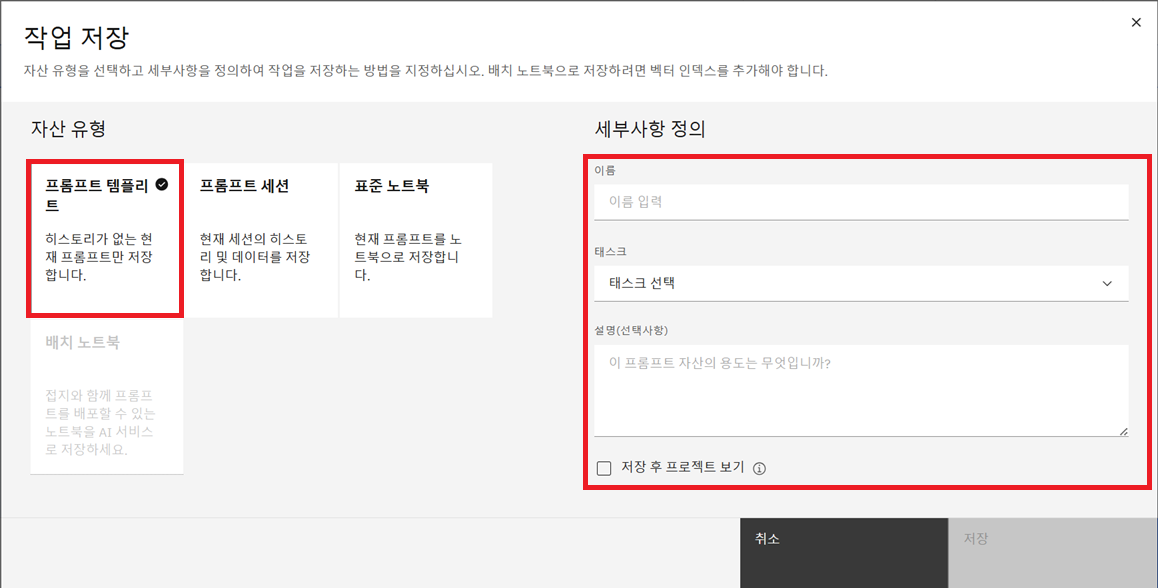
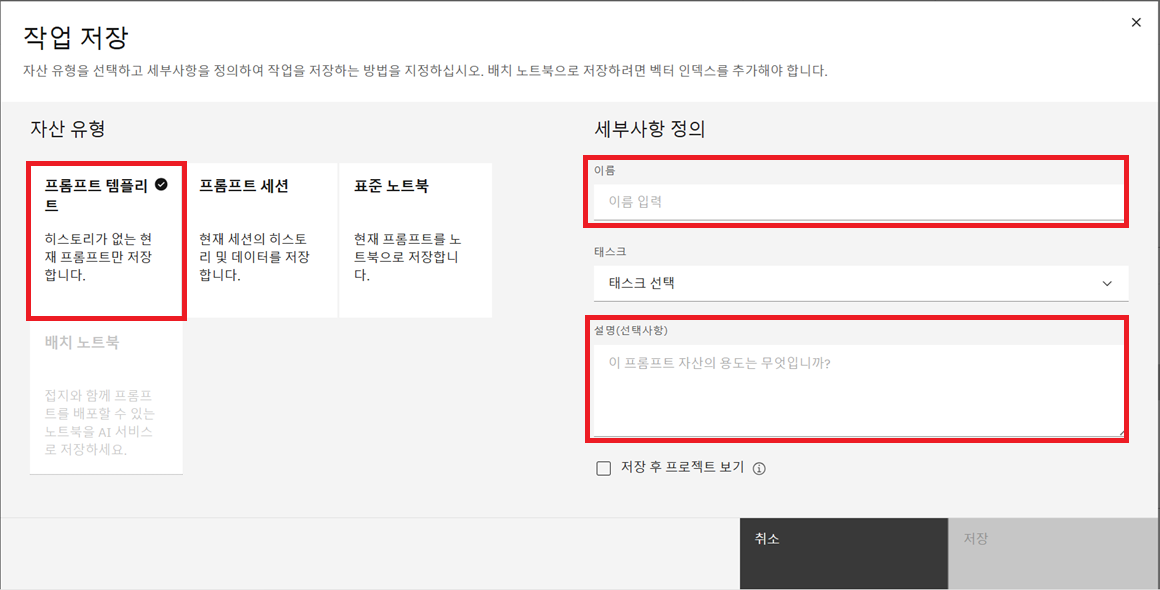
Watsonx Basic

diff --git a/01_Watsonx_Basic/HandsOn.md b/01_Watsonx_Basic/HandsOn.md
@@ -310,9 +310,12 @@ Output:
 ```
 ![자유형식 프롬프트](./img/freeform_prompt2.png)
 
+
 ## 프롬프트 저장하기
 
-![save prompt](./img/save_prompt.png)
+이전 단계에서 구조화된 프롬프트를 기반으로 개발한 고객 문의 자동 분류 챗봇 프롬프트를 저장해 보겠습니다.
+
+![save prompt](./img/save_prompt1.png)
 
 - 우측 상단 저장되지 않음의 오른쪽 **파일 모양** 클릭
 - **다른 이름으로 저장** 클릭
@@ -320,15 +323,78 @@ Output:
 ![save prompt](./img/save_prompt2.png)
 
 - 화면 좌측 **프롬프트 템플리트** 클릭
-- 이름과 
+- **이름**과 **설명**을 입력합니다.
 - 프로젝트 작성 화면에서 아래 규칙에 따라 이름과 설명을 작성합니다.
   - 다수의 인원이 한 자원을 사용하므로 반드시 명명규칙을 지켜 주시기 바랍니다.
-  - 명명규칙 : <자기이름>_base_template
+  - 명명규칙 : <자기이름>_고객문의분류챗봇
 - 이름(에시) 
   ```
-  Junho_base_template
+  Junho_고객문의분류챗봇
   ```
 - 설명
   ```
-  Watsonx.ai studio Prompt Lab 실습을 위한 프로젝트입니다.
+  고객 문의 자동 분류 및 챗봇 실습을 위한 프롬프트 입니다.
   ```
+
+
+![save prompt](./img/save_prompt3.png)
+
+- 이름과 설명 입력 후, 테스크는 **Classification**으로 선택합니다.
+- 설정이 모두 완료되었다면 우측 하단 **저장**을 클릭합니다.
+
+## Prompt Lab과 Python 연동하기
+
+- Watsonx.ai studio Prompt Lab에서는 **코드 보기** 기능을 통해 로컬에서 바로 실행할 수 있도록 Python, Curl, Node.js 코드를 제공합니다.
+
+![on python](./img/on_python1.png)
+
+- 화면 우측 상단 **</>** 버튼을 클릭하면 화면 우측에 코드 창이 활성화됩니다.
+
+![on python](./img/on_python2.png)
+
+- 화면에서 **펼치기** 버튼을 클릭합니다.
+
+![on python](./img/on_python3.png)
+
+- 코드 창에서 언어를 원하는 언어로 **Python**, **Curl**, **Node.js** 중 선택할 수 있습니다.
+- **Python**을 클릭해 전체 코드를 확인합니다.
+
+```
+Python 코드 구조
+
+1. body : 지사사항, 예시, 파라미터 설정, 모델ID, 프로젝트 ID
+
+2. header : 인증정보
+```
+
+![on python](./img/on_python4.png)
+
+- 코드 보기 하단 문구를 살펴보면 **개인 API 키를 작성** 이라는 문구가 있습니다.
+- Prompt Lab을 이용하기 위해서는 개인 인증을 위한 **ACCESS TOKEN**이 필요합니다. 
+- **ACCESS TOKEN**을 발급받기 위해 **개인 API 키를 작성**을 클릭합니다.
+
+![on python](./img/on_python5.png)
+
+- 우측 **작성** 버튼을 클릭합니다.
+
+![on python](./img/on_python6.png)
+
+- **이름**을 입력합니다.
+- 모든 설정을 그대로 두고 우측 하단 **작성** 버튼을 클릭합니다.
+
+![on python](./img/on_python7.png)
+
+![on python](./img/on_python8.png)
+
+- 생성된 API Key를 **복사** 버튼을 클릭해 복사합니다. (.env 파일에서 사용됩니다.)
+- <mark style = "background-color: yellow; border-radius: 3px"><b>이 키는 생성할 때 딱 한 번만 확인할 수 있기에 반드시 잘 복사해 기록해두어야 합니다.</b></mark>
+- API KEY 발급 후 창을 닫지 않고 그대로 두고, 다시 prompt lab 화면으로 돌아갑니다.
+
+![on python](./img/on_python9.png)
+
+- **copy 아이콘**을 클릭합니다.
+
+이 단계까지 완료했다면 Python 코드로 Prompt Lab을 사용할 준비가 완료되었습니다.
+아래 링크를 클릭해 Prompt Lab을 Python으로 실행해 보세요.
+
+[Python Prompt Lab](./HandsOn.ipynb)
